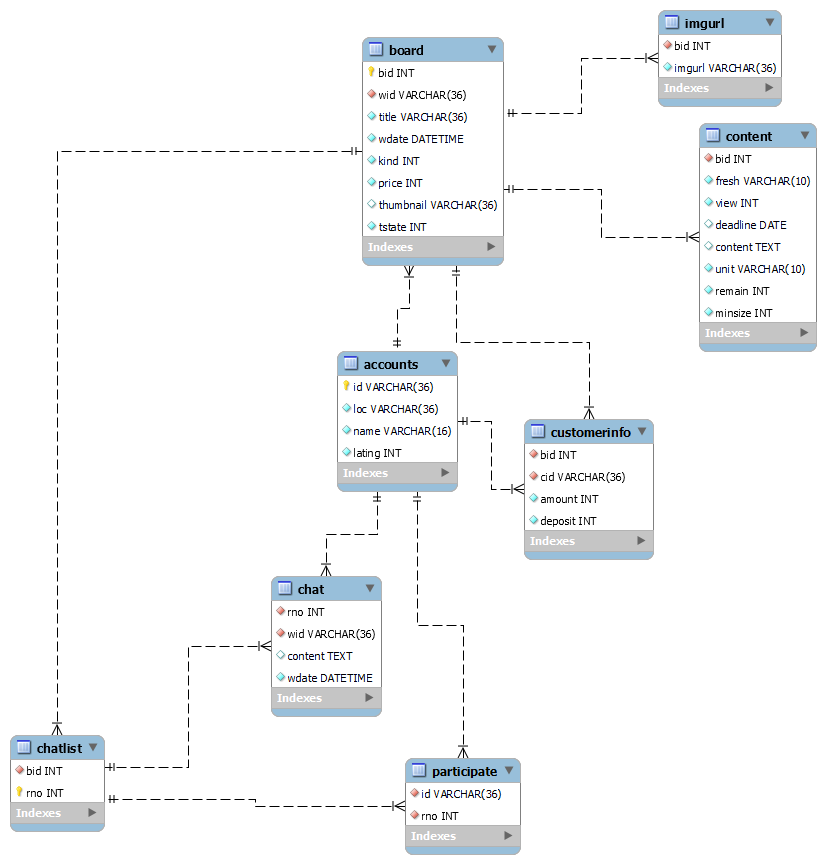
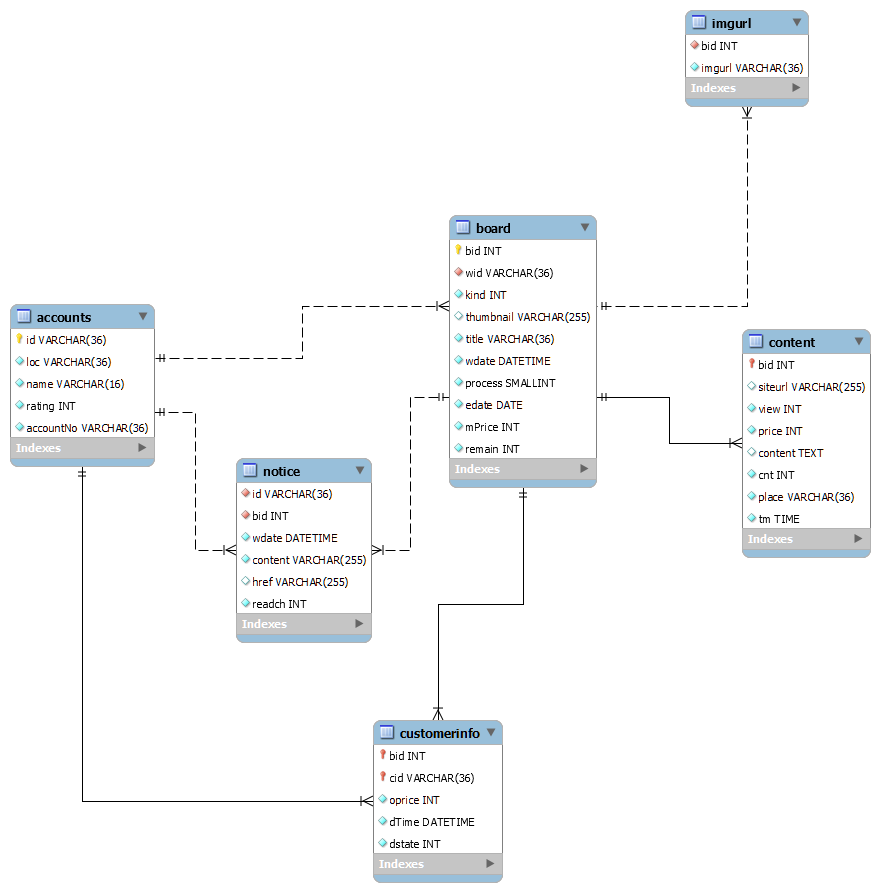
Edit ERD.png and README

diff --git a/Server/README.md b/Server/README.md
@@ -1,22 +1,18 @@
 # 집단지성 RESTFul-API
 
-![Generic badge](https://img.shields.io/badge/Node.js-14.7.5-green.svg) ![Generic badge](https://img.shields.io/badge/NPM-6.14.14-red.svg)![Generic badge](https://img.shields.io/badge/MariaDB-10.3.29-blue.svg)
+![Generic badge](https://img.shields.io/badge/Node.js-14.7.5-green.svg) ![Generic badge](https://img.shields.io/badge/NPM-6.14.14-red.svg)![Generic badge](https://img.shields.io/badge/MariaDB-10.3.29-blue.svg) 
 
 Catholic University CSE - Team Project
 
 ## !!UPDATE!!
 
-##### 2021/10/21
+##### 2021/10/28
 
-+ 데이터베이스 설계 최적화(게시글 테이블 분할 -> 게시글 리스트, 게시글 내용, 이미지 링크)
-+ 데이터베이스 테이블 추가(각 게시글 별로 구매자가 있을 경우 구매자들 정보를 요약해서 볼 수 있도록..)
-+ API 수정 ex)게시글 작성시 2개의 테이블에 정보입력!! 게시글 리스트 + 게시글 내용
-+ 쓸모없는 API 전부 제거
-+ DB 커넥션과정에서 sql 구문 실행시 성공, 실패를 관리할 errorhandler 펑션 추가
-+ 테이블 두 개 이상 접근시 트랜잭션 구현으로 어느 하나라도 오류발생시 SQL 롤백
-+ (~ing) 웹소켓 Studying... + 채팅 db 역시 분할 
-  + 어떤 사람이 어떤 채팅방에 참여중인지 알 수 있는 participate 테이블
-  + 채팅내용 전부 담는 테이블
++ 웹 채팅 삭제 -> 특별한 소통이 필요없고, 요즘은 추가적인 SNS 이미 발달되어있음. 웹에서의 채팅은 무의미 하다고 여겨서 덧글, 또는 다른 방식으로 서비스를 제공할 필요가 있어보임. 오히려 채팅 없이 사용자가 필요한 모든 정보를 제공함으로 사용자의 편리성을 증가시킬 수 있도록 설계
++ 데이터베이스의 테이블의 세부 컬럼 변경 및 테이블 삭제 및 추가(알림 관리용 테이블이 추가).
++ API 내부의 SQL 문 수정(컬럼이 변경되었기 때문,,)
++ 데이터베이스 내부적으로 이벤트 스케줄러를 사용하여 필요없는 데이터는 주기적으로 삭제
++ ERD 수정,,,
 
 ```bash
 $ node index.js
